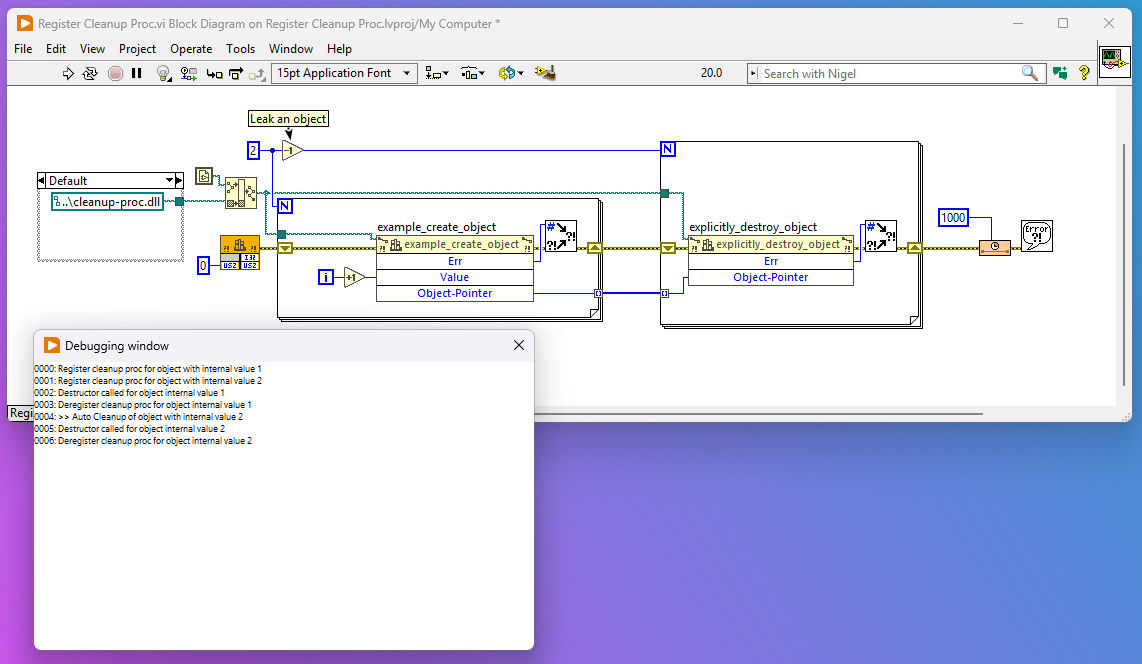
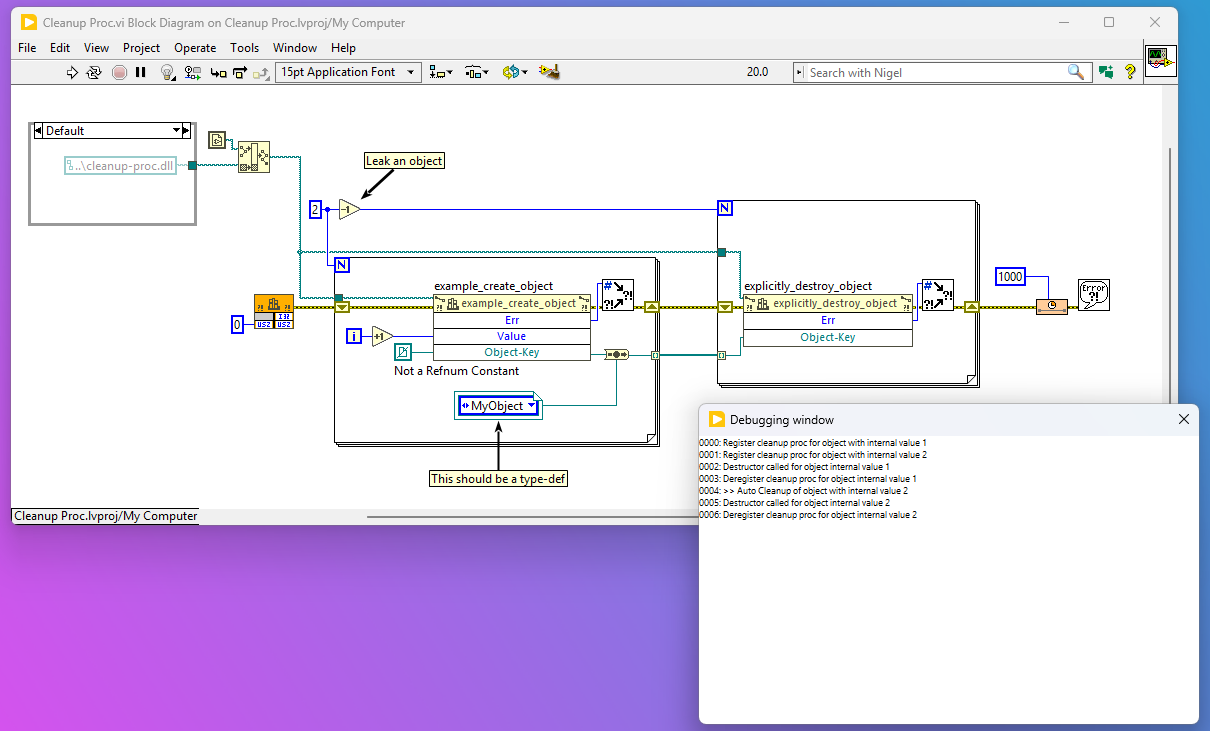
Add custom datalog ref

diff --git a/cleanup-proc.cpp b/cleanup-proc.cpp
@@ -110,6 +110,18 @@ BOOL APIENTRY DllMain(HMODULE hModule, DWORD ul_reason_for_call, LPVOID lpReserv
 //
 /**********************************************************************************************************/
 
+#include <unordered_map>
+
+class MyObject;
+
+// create a place to store object pointers that will work on 64-bit systems
+// no cross thread protection provided! use a shared-mutex in real life
+
+// we could just clean up the whole unordered_map when exiting but having
+// each object clean itself up is more fun!
+static std::unordered_map <LV_MagicCookie_t, MyObject*> object_map; 
+static LV_MagicCookie_t next_handle = 1;
+
 class MyObject
 {
 private:
@@ -144,11 +156,12 @@ public:
 extern "C"
 {
 
-    __declspec(dllexport) LV_MgErr_t example_create_object(int32_t value, MyObject **object)
+    __declspec(dllexport) LV_MgErr_t example_create_object(int32_t value, LV_MagicCookie_t* key)
     {
         try
         {
-            *object = new MyObject(value);
+            *key = next_handle++;
+            object_map.insert(std::make_pair(*key, new MyObject(value)));
             return LV_ERR_noError;
         }
         catch (...)
@@ -157,12 +170,16 @@ extern "C"
         }
     }
 
-    __declspec(dllexport) LV_MgErr_t explicitly_destroy_object(MyObject **object)
+    __declspec(dllexport) LV_MgErr_t explicitly_destroy_object(LV_MagicCookie_t* key)
     {
         try
         {
-            delete *object;
-            *object = nullptr; // only for comfort, doesn't really provide much safety.
+            auto it = object_map.find(*key);
+
+            if(it != object_map.end()){
+                delete it->second;
+                object_map.erase(*key); 
+            }
 
             return LV_ERR_noError;
         }

diff --git a/README.md b/README.md
@@ -1,12 +1,14 @@
 # LabVIEW Cleanup Proc Minimal C++ Example
 
-This is a 180 line self contained example of how to use the under documented `CleanupProc` in C++ with LabVIEW on Windows.
+This is a 190 line self contained example of how to use the under documented `CleanupProc` in C++ with LabVIEW on Windows.
 
 Its is based on https://github.com/ni/grpc-labview/blob/51c1ef2dbeb9f20ca8e8d19bfa0420c385280a25/src/lv_interop.cc#L20
 
 The code imports the `RTSetCleanupProc` function exported by the LabVIEW IDE/Runtime so it can be compiled without any linkage to ni provided binaries.
 
 The code is only written for compilation on windows with MSVC. If you want a more complete example of cross-platform then see https://gitlab.com/serenial/basler-camera-toolkit-for-labview
+
+The code also show using data log references as handles. Note, because refnums are only 32-bit in size we need to implement a global lookup between refnums and object pointers to support 64-bit usage. I would probably just use raw pointer sized integers and wrap them in an LVClass.
 
 # Building 
 